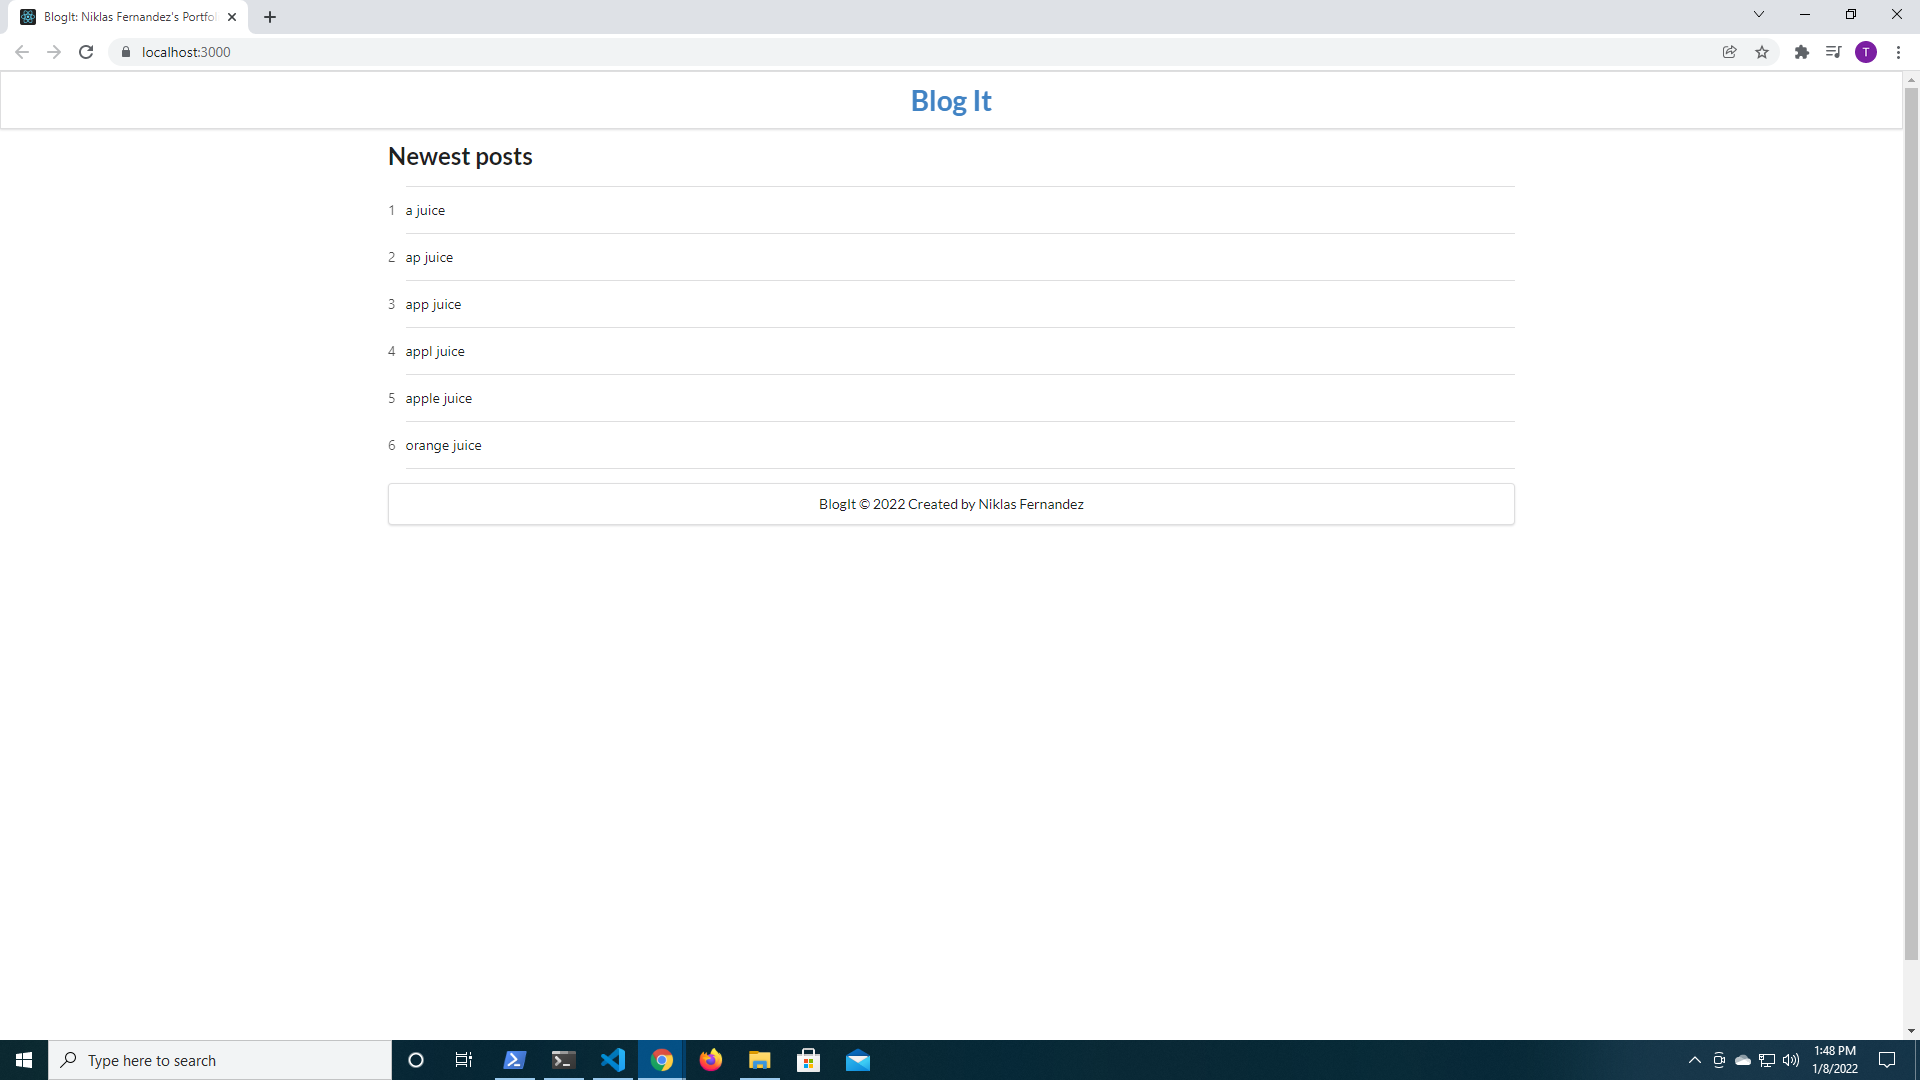
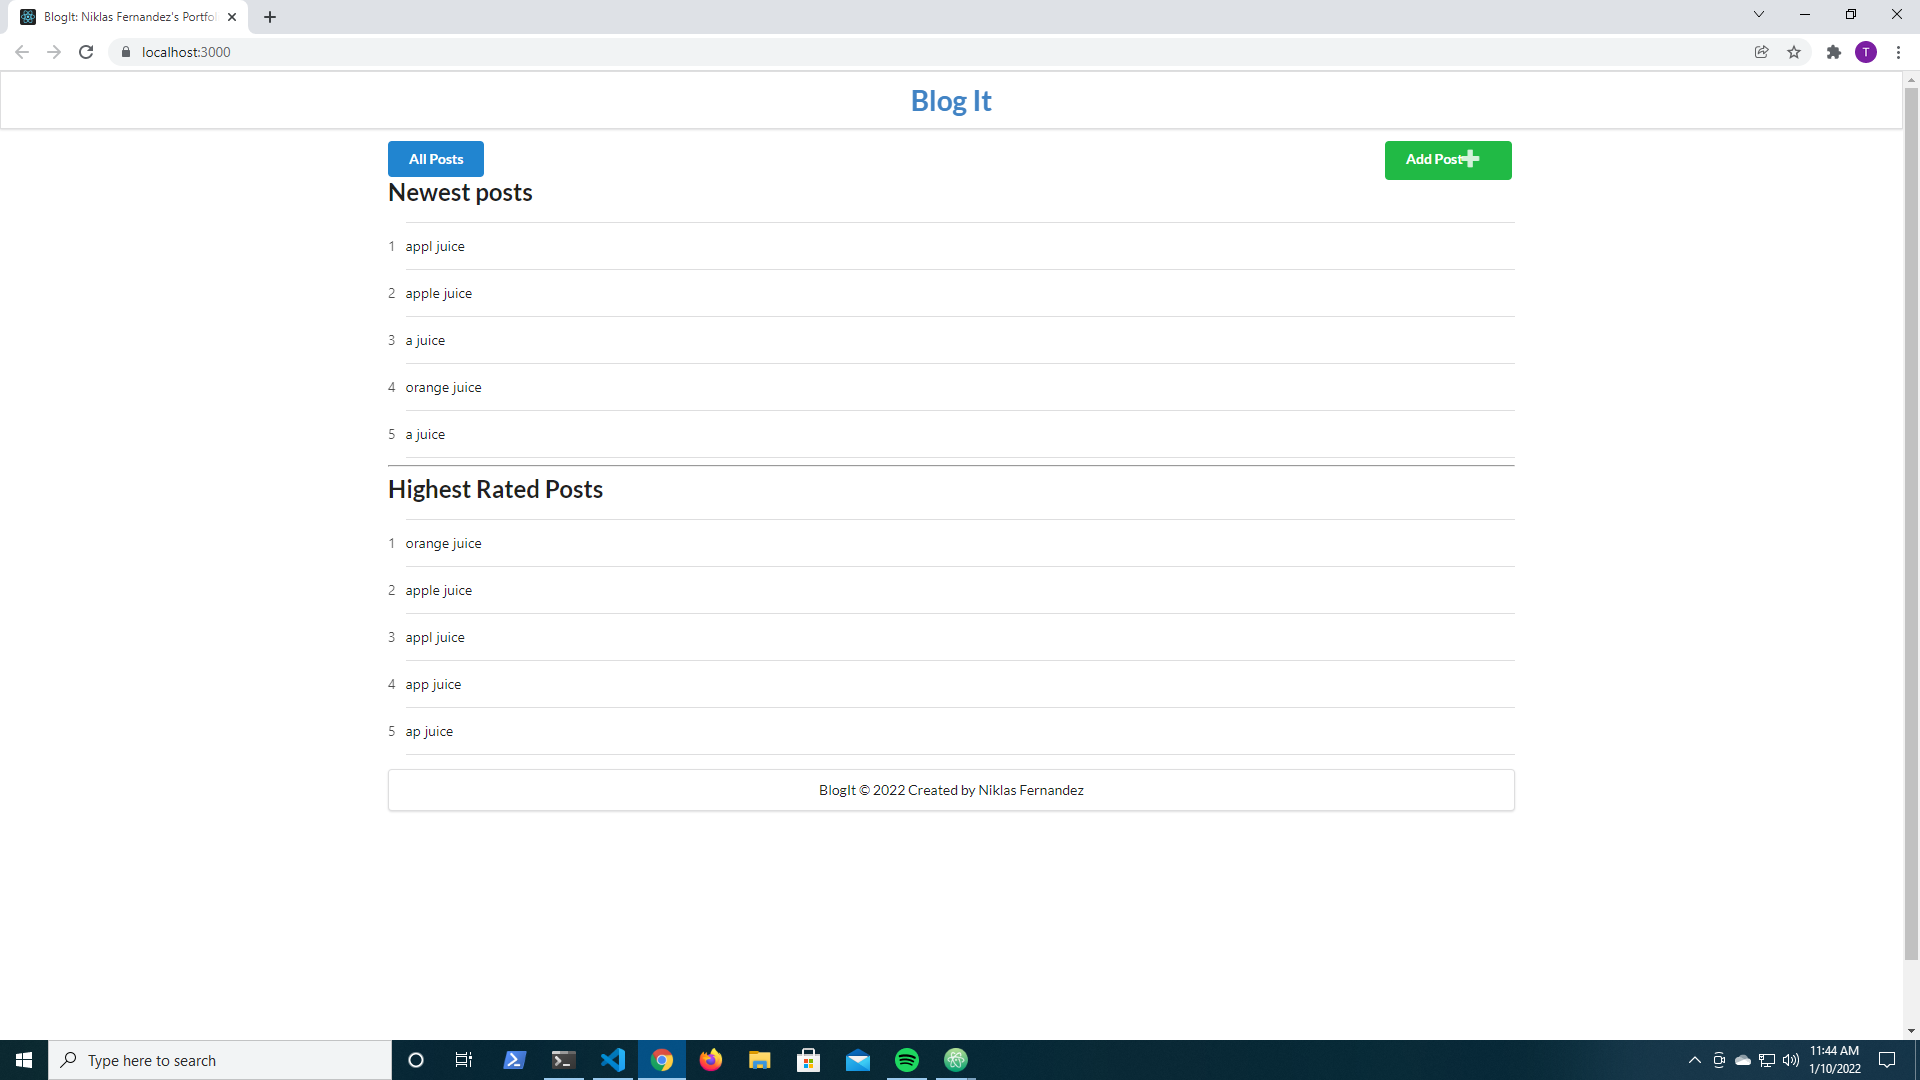
Finishes main prototype for project. Updates example photo as well.

diff --git a/src/Components/BlogList.js b/src/Components/BlogList.js
@@ -1,9 +1,9 @@
 import React, { useState, useEffect } from "react";
-import api from '../Server-API-Connector/BlogServerAPI';
-import { v4 as uuid } from 'uuid';
+import api from "../Server-API-Connector/BlogServerAPI";
 
 const BlogList = () => {
   const [posts, setPosts] = useState([]);
+  const [ratedPosts, setRatedPosts] = useState([]);
 
   useEffect(() => {
     retrieveContacts();
@@ -13,28 +13,34 @@ const BlogList = () => {
     const response = await api.get("/posts");
 
     // Verify data has been receieved.
-    if(!response.data) {
+    if (!response.data) {
       console.log("No data received.");
       return;
     }
 
     /** Sets our state to a sorted list of posts by title. */
-    setPosts(response.data.sort(sortPostsBy("title")));
+    setPosts(response.data.sort(sortPostsBy("date")).slice(0, 5));
+    setRatedPosts(response.data.sort(sortPostsBy("rating")).slice(0, 5));
   };
 
   /** Compares two posts by a certain target. Title, body, rating, and tags.*/
   const sortPostsBy = (target) => {
     return (a, b) => {
-      if(a[target] > b[target])
-        return 1;
-      else if(a[target] < b[target])
-        return -1;
-      else
-        return 0;
-    }
-  }
+      if (a[target] > b[target]) return 1;
+      else if (a[target] < b[target]) return -1;
+      else return 0;
+    };
+  };
 
-  const enumeratePosts = (posts).map((post) => {
+  const enumeratePosts = posts.map((post) => {
+    return (
+      <div key={post.id} className="ui item">
+        <li>{post.title}</li>
+      </div>
+    );
+  });
+
+  const enumerateRatedPosts = ratedPosts.map((post) => {
     return (
       <div key={post.id} className="ui item">
         <li>{post.title}</li>
@@ -44,10 +50,22 @@ const BlogList = () => {
 
   return (
     <div className="main container">
-      <h2>Newest posts</h2>
-      <ol className="ui celled list">
-        { enumeratePosts }
-      </ol>
+      <div>
+        <button className="ui button left blue">All Posts</button>
+        <button className="ui button right green">
+          Add Post
+          <i className="icon plus"></i>
+        </button>
+      </div>
+      <div className="ui">
+        <h2>Newest posts</h2>
+        <ol className="ui celled list">{enumeratePosts}</ol>
+      </div>
+      <hr />
+      <div className="ui">
+        <h2>Highest Rated Posts</h2>
+        <ol className="ui celled list">{enumerateRatedPosts}</ol>
+      </div>
     </div>
   );
 };

diff --git a/src/Components/App.css b/src/Components/App.css
@@ -37,3 +37,12 @@ i.icon {
 .link:hover {
   color: #000;
 }
+
+img {
+  max-width: 10%;
+  display: block;
+}
+
+i {
+  margin-left: 20px;
+}
